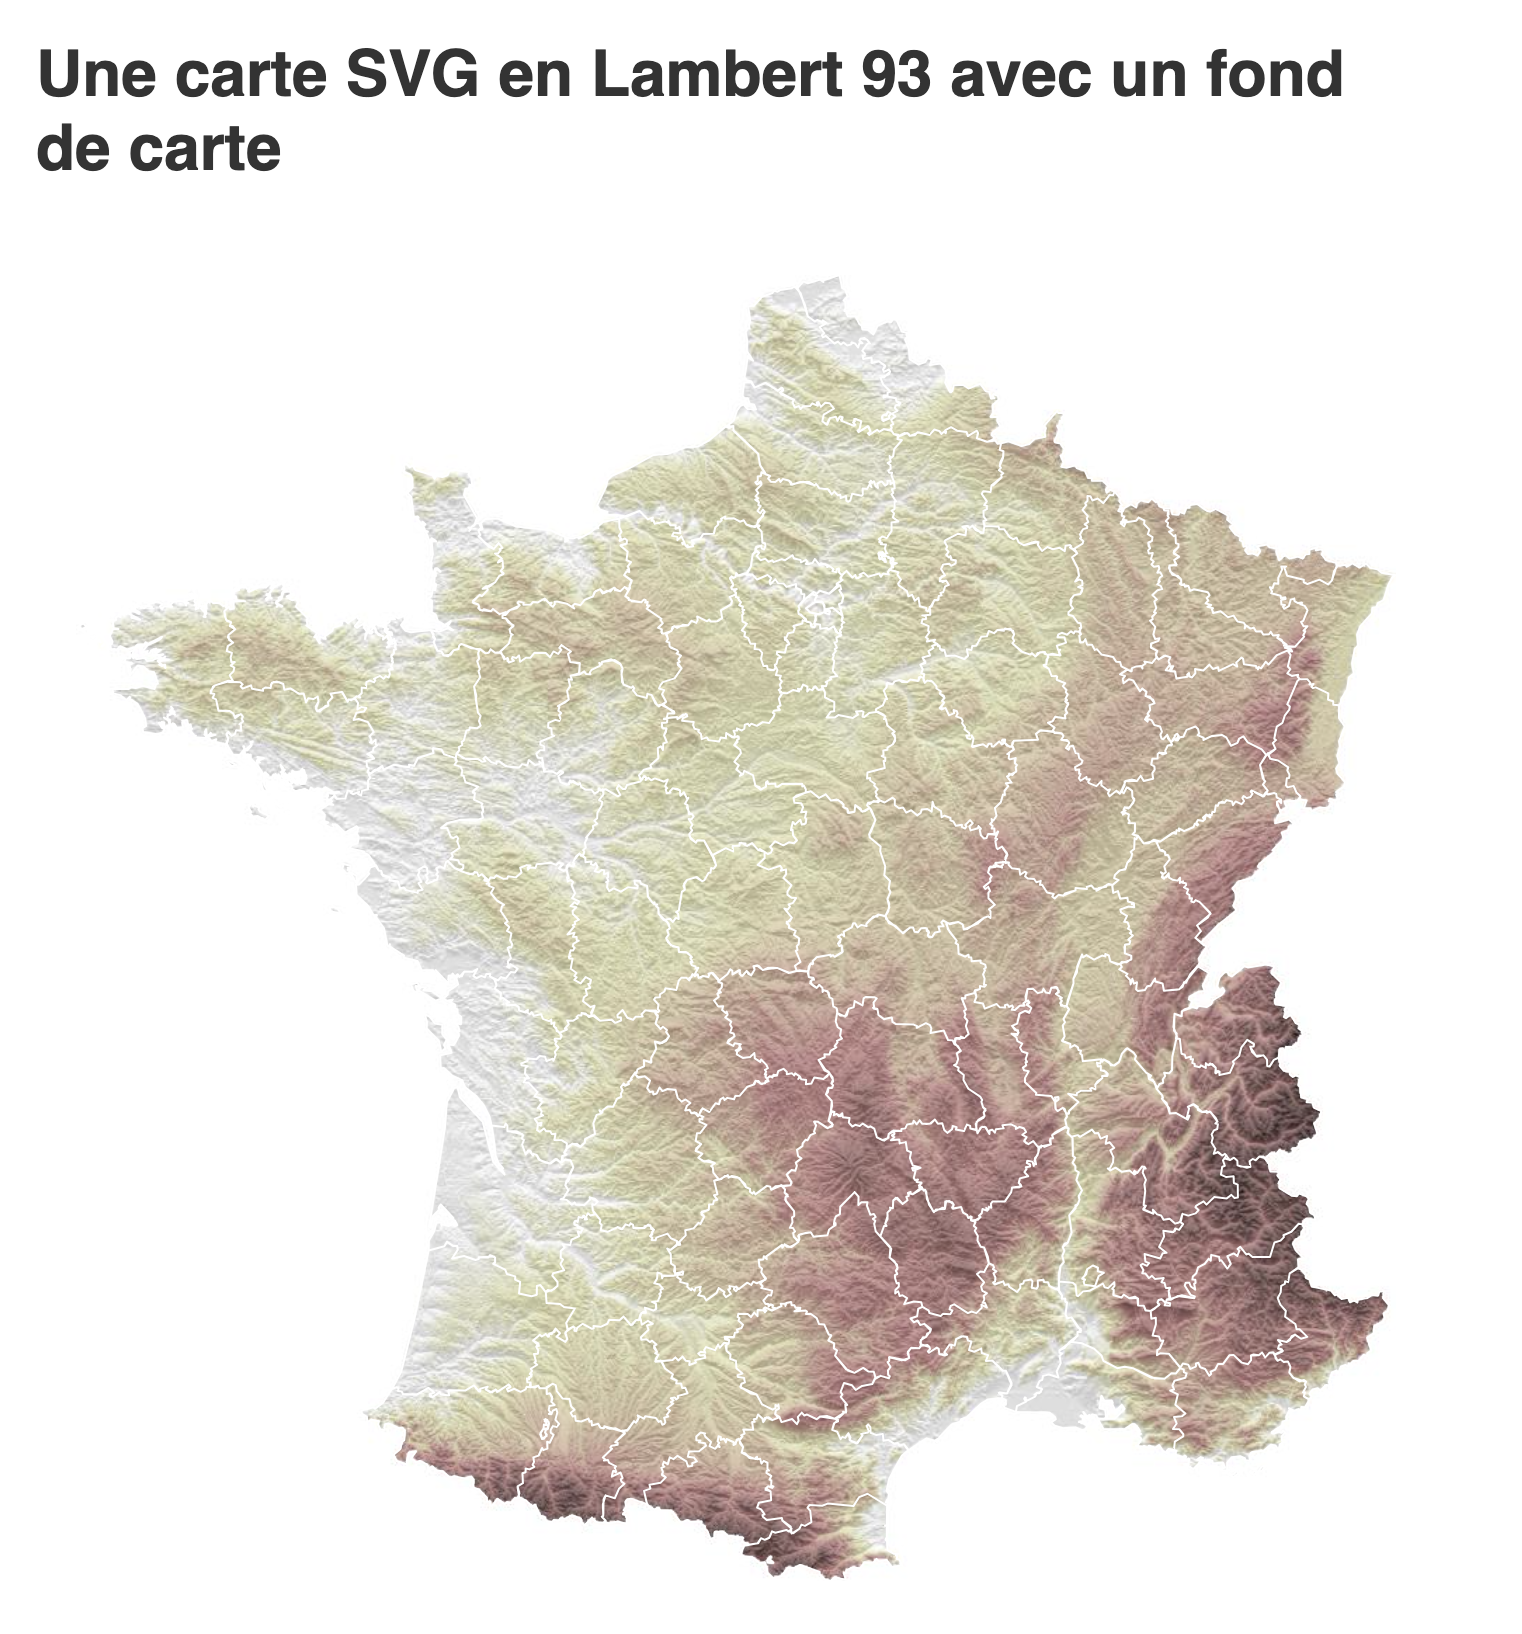
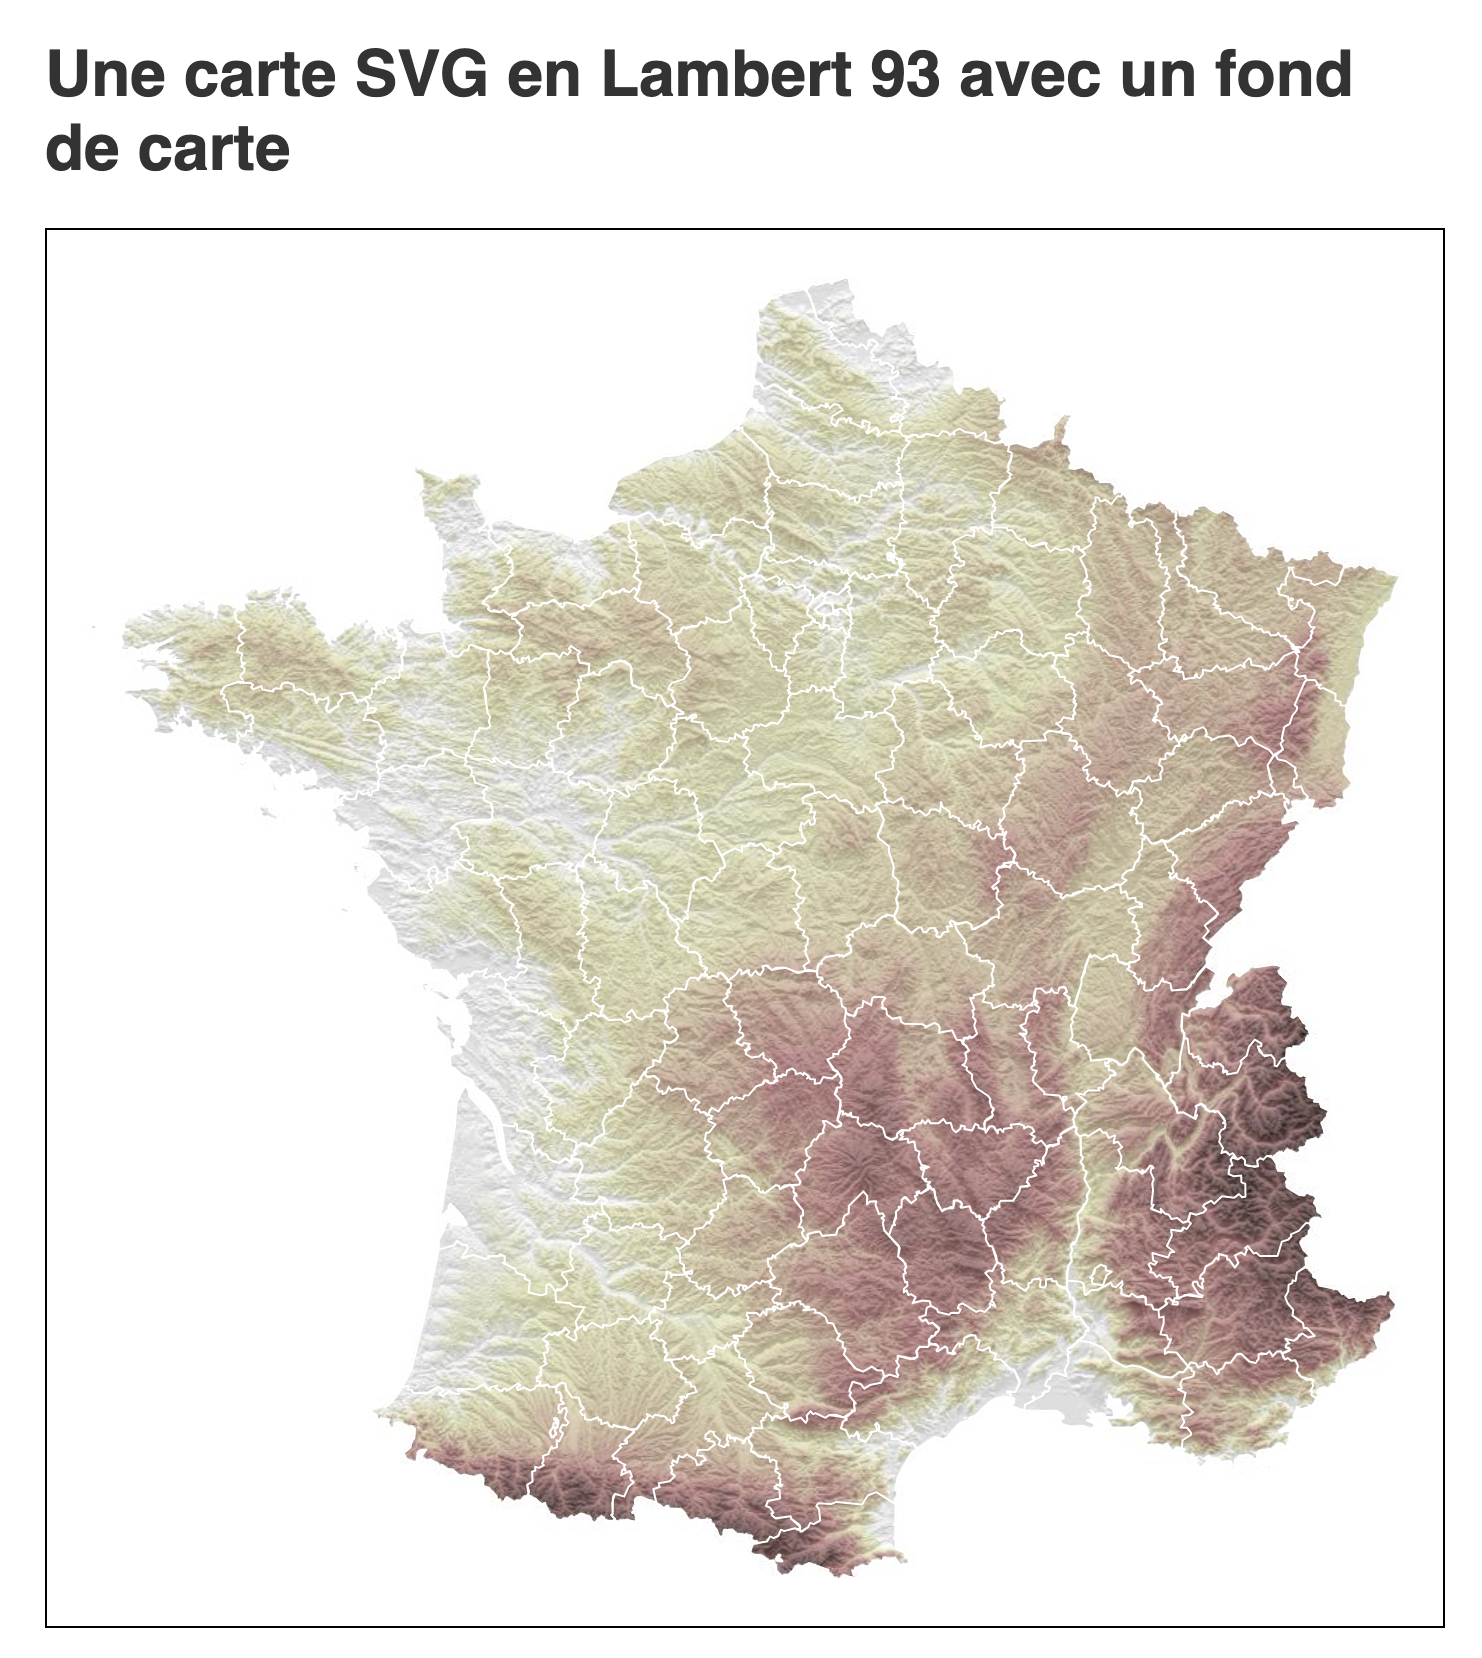
Readme

Changed region(s): [[0.0621, 0.1561, 0.9622, 0.9676], [0.0, 0.0312, 0.9312, 0.1248]]

diff --git a/src/App.jsx b/src/App.jsx
@@ -55,18 +55,27 @@ function Chart() {
   }, [departements, sizes]);
 
   return (
-    <div className="map">
+    <div
+      className="map"
+      style={{
+        height: "100vh",
+        width: "100%",
+        maxWidth: "700px",
+        margin: "0 auto",
+      }}
+    >
       <h1>Une carte SVG en Lambert 93 avec un fond de carte</h1>
       <svg
         preserveAspectRatio="xMidYMid meet"
         viewBox={`0 0 ${width} ${height}`}
+        style={{ display: "block", border: "solid 1px #000" }}
       >
         <g transform={`translate(${margin}, ${margin})`}>
           <image href="./elevation.jpeg" {...geo.franceSizes} />
           <path
             d={geo.path(departements)}
             fill="none"
-            stroke="white"
+            stroke="#fff"
             vectorEffect={"non-scaling-stroke"}
             strokeLinecap="round"
             strokeLinejoin="round"

diff --git a/src/index.css b/src/index.css
@@ -6,14 +6,3 @@ body {
   font-size: 16px;
   color: #333;
 }
-
-.map {
-  height: 100vh;
-  width: 100%;
-  max-width: 700px;
-  margin: 0 auto;
-
-  svg {
-    display: block;
-  }
-}

diff --git a/README.md b/README.md
@@ -14,4 +14,6 @@ Le notebook `prepare.ipynb` décrit comment télécharger les rasters puis les m
 
 Le code front est disponible dans le dossier `src`. Il s'appuie sur React mais on aurait pu utiliser un autre framework ou du vanilla js.
 
+Pour la projection en Lambert 93. J'utilise [une fonction de Philippe Rivière disponible ici](https://observablehq.com/@fil/proj4js-d3).
+
 ![](./screenshot.png)
